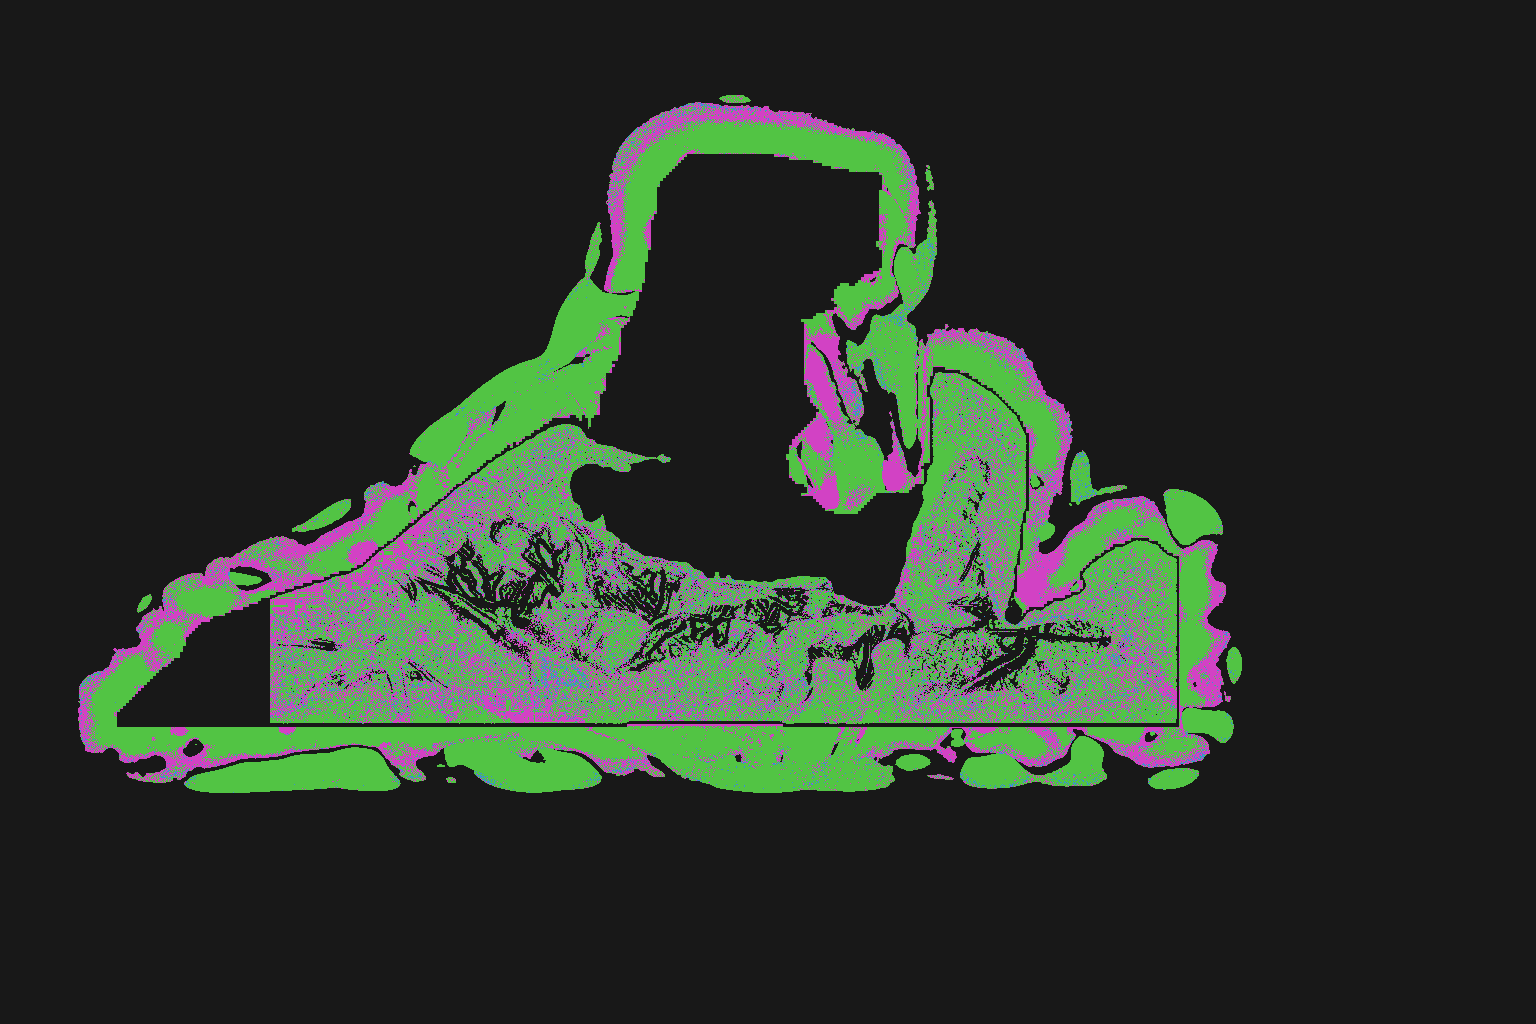
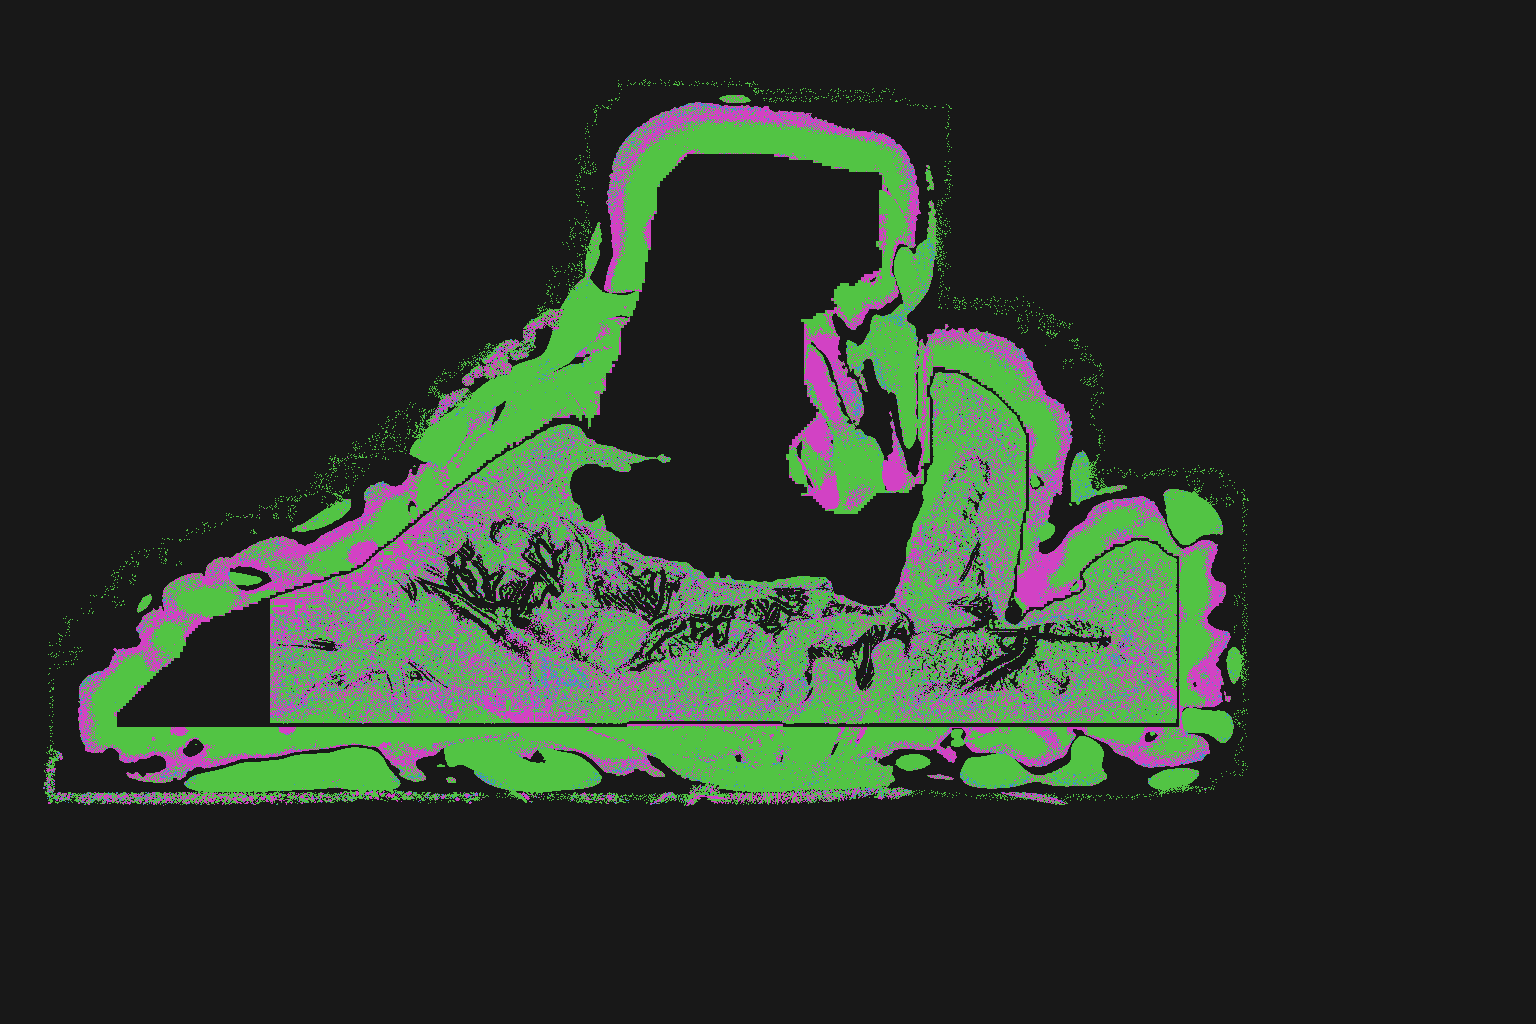
Taper weak high-frequency seam smoothing

diff --git a/src/focusstack/veil_layers.py b/src/focusstack/veil_layers.py
@@ -3726,14 +3726,57 @@ def recover_giant_veil(
             detail_correction * mask[..., None]
             + low_correction * low_mask[..., None]
         )
-    output = np.rint(
-        np.clip(
-            repaired_base.astype(np.float32)
-            + applied_correction,
-            0,
-            255,
+    composed = repaired_base.astype(np.float32) + applied_correction
+    if one_sided_geometry:
+        front_extent = np.asarray(selected["front_extent"], bool)
+        veil_support = (
+            _fringe_mask(alpha, max_radius, 2.0 * spatial_scale) > 0.0
         )
-    ).astype(np.uint8)
+        support_edge = veil_support & ~(
+            cv2.erode(
+                veil_support.astype(np.uint8),
+                np.ones((3, 3), np.uint8),
+            )
+            > 0
+        )
+        distance_to_front = cv2.distanceTransform(
+            (~front_extent).astype(np.uint8),
+            cv2.DIST_L2,
+            5,
+        )
+        outer_edge = support_edge & (
+            distance_to_front >= 0.65 * max_radius
+        )
+        if np.any(outer_edge):
+            edge_distance = cv2.distanceTransform(
+                (~outer_edge).astype(np.uint8),
+                cv2.DIST_L2,
+                5,
+            )
+            transition_width = np.where(
+                veil_support,
+                1.5 * spatial_scale,
+                4.0 * spatial_scale,
+            )
+            phase = np.clip(
+                edge_distance / np.maximum(transition_width, 1e-6),
+                0.0,
+                1.0,
+            )
+            seam_strength = 0.12 * (
+                1.0 - phase * phase * (3.0 - 2.0 * phase)
+            )
+            seam_strength[front_extent] = 0.0
+            local_low = cv2.GaussianBlur(
+                composed,
+                (0, 0),
+                0.5 * spatial_scale,
+                borderType=cv2.BORDER_REFLECT,
+            )
+            composed -= seam_strength[..., None] * (
+                composed - local_low
+            )
+    output = np.rint(np.clip(composed, 0, 255)).astype(np.uint8)
     report.update(
         {
             "fired": True,
